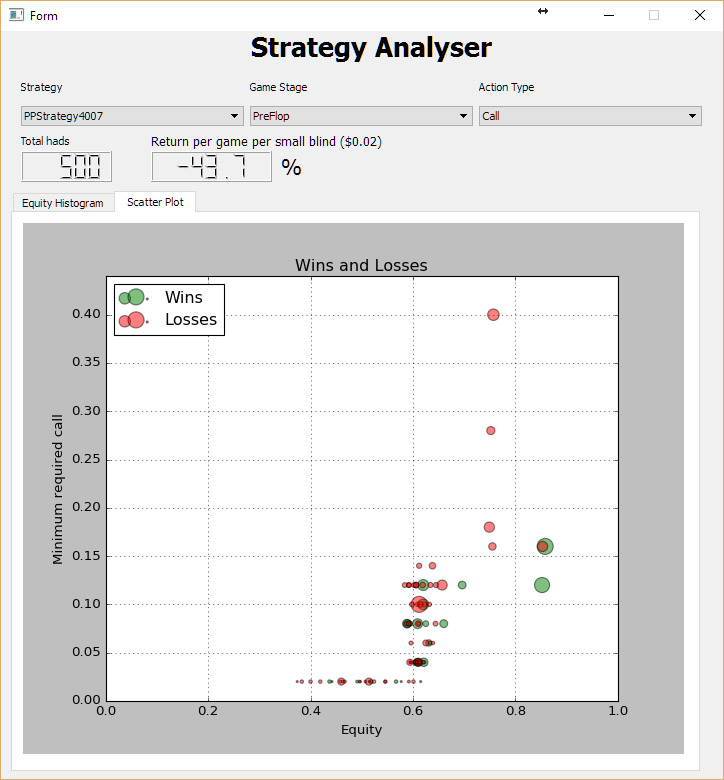
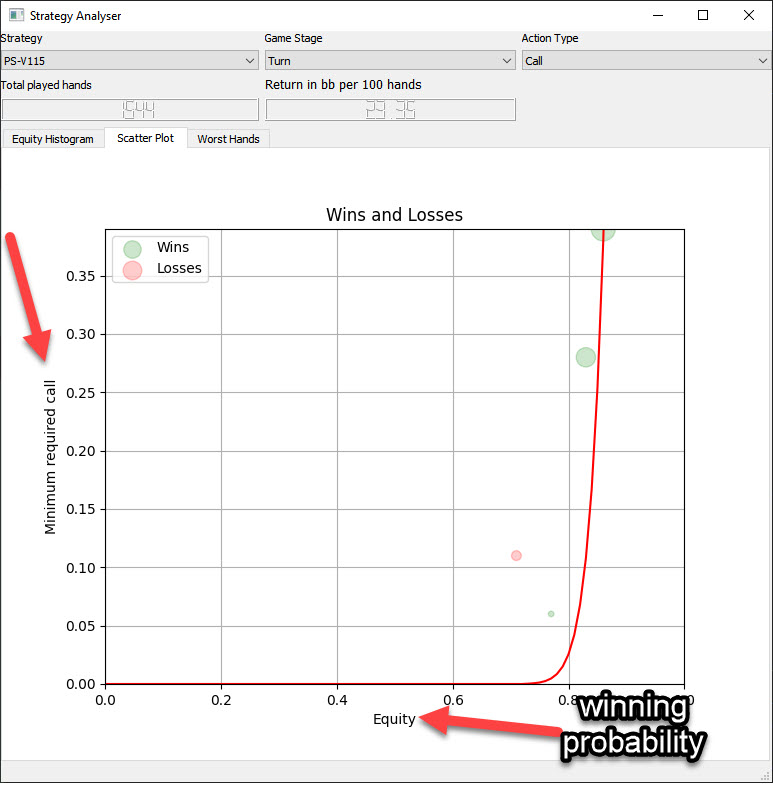
documentation update

diff --git a/readme.rst b/readme.rst
@@ -9,18 +9,6 @@ You can download the binaries and run the executable directly from here:
 https://sourceforge.net/projects/partypoker-pokerstars-pokerbot/
 
 
-.. figure:: doc/fullscreen1.png
-
-
-For Pokerstars you will need to make some adjustments to the client. It needs to look exactly as the below, in order to run it with
-the Official Pokerstars Table scraper:
-
-* Make sure to match the card styles (4 color), covered card styles, and table styles.
-
-.. figure:: doc/ps-example.png
-
-
-
 Running the bot:
 ----------------
 
@@ -46,18 +34,37 @@ the whole computer:
 * Install Partypoker or Pokerstars in the virtual box environment
 * Install the pokerbot directly onto your computer (outside of the virtual box)
 
+Partypoker:
+~~~~~~~~~~~
+* Use Fast Forward Tables
+* Select Official PartyPoker table scraper
+.. figure:: doc/fullscreen1.png
 
-Note:
+Pokerstars:
+~~~~~~~~~~~
+* Use Zoom Tables
+* Select Official Poker Stars table scraper
+* For Pokerstars you will need to make some adjustments to the client. It needs to look exactly as the below, in order to run it with
+the Official Pokerstars Table scraper:
+* Make sure to match the card styles (4 color), covered card styles, and table styles.
 
-* Only works on windows
+.. figure:: doc/ps-example.png
+
+
+Additional Hints:
+~~~~~~~~~~~~~~~~~
+
+* The current version Only works on windows
 * Do not obstruct the view of the table as the bot is based on image recognition
 * Only one table window should be visible.
 * For best performance minimize all windows in the vm, except the table window itself
 * Don't use any dpi scaling in the virtualbox
 * In setup, try to select your virtual machine instead of direct mouse control. That way mouse movements won't obstruct you.
 
+
+
 Full version:
---------------
+~~~~~~~~~~~~~
 
 The full version allow you to:
 
@@ -70,8 +77,59 @@ https://www.paypal.com/webapps/billing/plans/subscribe?plan_id=P-910576034F79037
 You can also get a free subscription if you make some (meaningful) contribution to the codebase.
 
 
+The easiest way to contribute is by:
+
+- Adding new tables.
+- Adding new strategies
+- Directly add fixes to the code and create a pull request
+
+
+Strategy editor
+---------------
+A variety of factors are taken into consideration when the bot makes decisions and they can be adjusted in the strategy editor:
+
+- Equity (winning probability), which is calculated by a montecarlo simulation
+- Equity and minimum call/bet value need to be on the left of the corresponding curve in order for the bot not to fold
+- Various other factors, such as behaviour in the previous rounds are taken into consideration. Check out the strategy editor for more details.
+- Hover over each item to see a more detailed description
+
+.. figure:: doc/strategy2.png
+
+Strategy Analyzer
+-----------------
+
+- You can see the profitability of each strategy in the strategy analyzer.
+- The bar chart indicates what action types have led to wins or losses at each stage (preflop, flop turn and river)
+
+.. figure:: doc/strategy_analyser1.jpg
+
+Analyze individual hands:
+
+.. figure:: doc/strategy_analyser_scatter.jpg
+
+
+Adding new tables
+~~~~~~~~~~~~~~~~~
+
+`Click here to see a Video description how to add a new table <https://www.dropbox.com/s/txpbtsi1drncq4x/20200531_194837.mp4?dl=0>`_
+
+The setup to add new tables looks like this:
+
+.. figure:: doc/scraper.png
+
+- Open the pokerbot and click on table setup to open the window that helps you create new tables.
+- Open the poker client next to it, make sure it's not dpi scaled, so the pokerbot can take screenshots.
+- Start with creating a new template, you can do this by entering a name for your template, for example Pokerstars 1-2 zoom poker. Click on 'Blank new'.
+- Now the first think you want to do is to take a screenshot of the pokerstars window with the table. You can do this by pressing on the Take screenshot button. You should not see in the lower window a full screenshot of what is on your screen.
+- The first step is now to mark the top left corner of the poker tables window, which will be the point of reference for everything else that will follow. To mark the top left corner, you need to mark it by first clicking on the top left part of it and then on the right lower part of it. once you have done this, it will appear in the second window. You can save it by clicking on the "save newly selected top left corner" button.
+- Now you can crop it by pressing on the crop from top left corner button. This will discard most of the screenshot and only keep the screenshot from the top left corner and everything a few hundred pixels to the right of it and below.
+- Next you will want to mark everything else in the window. Start with the Buttons search area. You can do this again by clicking on the top left area of the buttons and then on the bottom right area of where the buttons appear. Once you are happy with the selection, click on the "Buttons search area".
+- If you hover over the buttons, you will get a more detailed description of what you need to pay attention to.
+- Note that you will need to take many screenshots, crop them (don't select the top left corner again, as this you should only do once), instead load it and then crop the image. After that make your selection of the different images and save them by pressing on the corresponding button. You'll need to teach it every card and every button etc.
+
+
 Running via python source code
-~~~~~~~~~~~~~~~~~~~~~~~~~~~~~~
+------------------------------
 - Download pycharm as an IDE
 - Install python 3.7 or Anaconda (=python with packages)
 - Create an environment with ``conda create -n poker python=3.7`` or use pycharm's functionality to create a new virtual environment. Chefck youtube for details.
@@ -80,18 +138,6 @@ Running via python source code
 - Install tesseract from https://github.com/UB-Mannheim/tesseract/wiki which is needed for OCR of the numbers that are scraped
 - Install virtualbox from https://www.virtualbox.org/wiki/Downloads and put the poker client into the virtual box. That way it can be controlled without having to use the mouse in your main window.
 - Run ``main.py`` from pycharm after setting up the above created virtual environment as interpreter (check youtube)
-
-Strategies
-----------
-The decision is made by the Decision class in decisionmaker.py. A variety of factors are taken into consideration:
-
-- Equity (winning probability), which is calculated by Montecarlo_v3.py (will be replaced with a faster numpy-only version in Montecarlo_v4.py)
-- Equity and minimum call/bet value need to be on the left of the corresponding curve in order for the bot not to fold
-- Various other factors, such as behaviour in the previous rounds are taken into consideration. Check out the strategy editor ffor more details.
-
-.. figure:: doc/strategy2.png
-.. figure:: doc/strategy_analyser1.jpg
-.. figure:: doc/strategy_analyser_scatter.jpg
 
 
 Packages and modules:
@@ -131,43 +177,13 @@ Roadmap
 -------
 - [x] Build a framework that can play online
 - [x] Createa a tool that helps to map the tables and make maps shared over all users via mongodb
-- [x] Update the pokerbot to the new table format of partypoker
-- [x] Update the pokerbot to the new table format of pokerstars
-- [ ] Fix pylint errors and improve code quality
+- [x] Update the pokerbot to the new table format of Partypoker
+- [x] Update the pokerbot to the new table format of Pokerstars
+- [x] Update the pokerbot to the new table format of GGPoker
+- [x] Fix pylint errors and improve code quality
 - [ ] Update tests. Some are currently outdated. More tests are needed
-- [ ] Make travis work. Windows support is currently limited, so most likely the bot needs to be made linux compatible (and also mac)
 - [ ] Add more strategies
 - [ ] Combine the bot with the neuron_poker project and have it play based on learned strategies via self-play based on reinforcement learning
-
-
-How to contribute
------------------
-
-- The easiest way to contribute is by either:
-    - adding new tables.
-    - Adding new strategies
-    - Directly add fixes to the code and create a pull request
-
-
-Adding new tables
-~~~~~~~~~~~~~~~~~
-
-`Click here to see a Video description how to add a new table <https://www.dropbox.com/s/txpbtsi1drncq4x/20200531_194837.mp4?dl=0>`_
-
-The setup to add new tables looks like this:
-
-.. figure:: doc/scraper.png
-
-- Open the pokerbot and click on table setup to open the window that helps you create new tables.
-- Open the poker client next to it, make sure it's not dpi scaled, so the pokerbot can take screenshots.
-- Start with creating a new template, you can do this by entering a name for your template, for example Pokerstars 1-2 zoom poker. Click on 'Blank new'.
-- Now the first think you want to do is to take a screenshot of the pokerstars window with the table. You can do this by pressing on the Take screenshot button. You should not see in the lower window a full screenshot of what is on your screen.
-- The first step is now to mark the top left corner of the poker tables window, which will be the point of reference for everything else that will follow. To mark the top left corner, you need to mark it by first clicking on the top left part of it and then on the right lower part of it. once you have done this, it will appear in the second window. You can save it by clicking on the "save newly selected top left corner" button.
-- Now you can crop it by pressing on the crop from top left corner button. This will discard most of the screenshot and only keep the screenshot from the top left corner and everything a few hundred pixels to the right of it and below.
-- Next you will want to mark everything else in the window. Start with the Buttons search area. You can do this again by clicking on the top left area of the buttons and then on the bottom right area of where the buttons appear. Once you are happy with the selection, click on the "Buttons search area".
-- If you hover over the buttons, you will get a more detailed description of what you need to pay attention to.
-- Note that you will need to take many screenshots, crop them (don't select the top left corner again, as this you should only do once), instead load it and then crop the image. After that make your selection of the different images and save them by pressing on the corresponding button. You'll need to teach it every card and every button etc.
-
 
 
 Making fixes in the code
